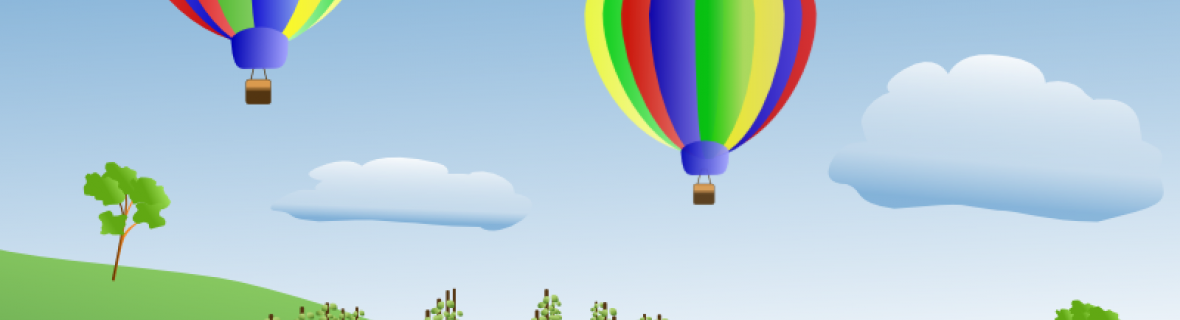
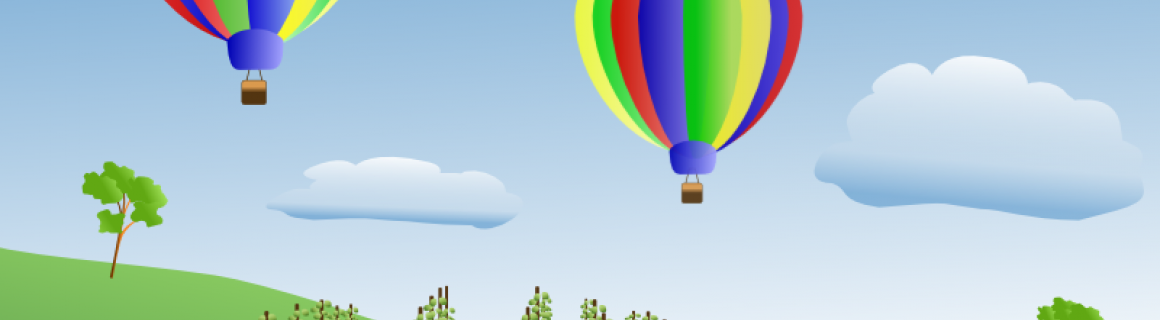
Apo theme

diff --git a/sites/default/themes/apo/css/global.css b/sites/default/themes/apo/css/global.css
@@ -127,31 +127,26 @@ html, body {
 
 /** Frontpage Promo block **/
 /* line 115, ../sass/global.scss */
-#zone-preface #region-preface {
-  width: 1180px;
-}
-
-/* line 119, ../sass/global.scss */
 .block-promo-homepage-block {
   margin-bottom: 20px;
   height: 320px;
   overflow: hidden;
 }
 
-/* line 125, ../sass/global.scss */
+/* line 121, ../sass/global.scss */
 ul.promo-items {
   margin: 0;
   padding: 0;
 }
-/* line 128, ../sass/global.scss */
+/* line 124, ../sass/global.scss */
 ul.promo-items li.promo-item {
   margin: 0;
   padding: 0;
   position: relative;
   height: 320px;
-  width: 1180px;
+  width: 1160px;
 }
-/* line 134, ../sass/global.scss */
+/* line 130, ../sass/global.scss */
 ul.promo-items li.promo-item .promo-description {
   position: absolute;
   top: 20px;
@@ -162,11 +157,11 @@ ul.promo-items li.promo-item .promo-description {
   z-index: 100;
   font-size: 1.231em;
 }
-/* line 143, ../sass/global.scss */
+/* line 139, ../sass/global.scss */
 ul.promo-items li.promo-item .promo-description h1 {
   text-shadow: 1px 1px 2px white;
 }
-/* line 147, ../sass/global.scss */
+/* line 143, ../sass/global.scss */
 ul.promo-items li.promo-item .promo-visual {
   position: absolute;
   top: 0;
@@ -175,13 +170,13 @@ ul.promo-items li.promo-item .promo-visual {
 }
 
 /** Frontpage text block **/
-/* line 157, ../sass/global.scss */
+/* line 153, ../sass/global.scss */
 .front #region-content {
   margin: 0;
   width: 100%;
 }
 
-/* line 162, ../sass/global.scss */
+/* line 158, ../sass/global.scss */
 .front #block-system-main {
   background: #f3f4f5;
   border-top: 1px solid #cacaca;
@@ -190,48 +185,44 @@ ul.promo-items li.promo-item .promo-visual {
 }
 
 /** Frontpage 3 blocks **/
-/* line 170, ../sass/global.scss */
-.front #region-postscript {
-  margin-left: 10px;
-  margin-right: 10px;
-  width: 100%;
-}
-
-/* line 176, ../sass/global.scss */
+/* line 166, ../sass/global.scss */
 .front ul.front-blocks {
   margin: 0;
   padding: 0;
-  margin-left: 10px;
 }
-/* line 180, ../sass/global.scss */
+/* line 169, ../sass/global.scss */
 .front ul.front-blocks li.front-block {
   margin: 0;
   padding: 0;
-  margin-right: 20px;
+  margin-right: 40px;
   padding: 20px 0;
 }
-/* line 185, ../sass/global.scss */
+/* line 174, ../sass/global.scss */
+.front ul.front-blocks li.front-block.last {
+  margin-right: 0;
+}
+/* line 177, ../sass/global.scss */
 .front ul.front-blocks li.front-block .frontblock-image {
   margin-bottom: 10px;
 }
-/* line 187, ../sass/global.scss */
+/* line 179, ../sass/global.scss */
 .front ul.front-blocks li.front-block .frontblock-image img {
-  width: 376px;
+  width: 356px;
   height: 155px;
   border: 2px solid #f3f4f5;
 }
-/* line 193, ../sass/global.scss */
+/* line 185, ../sass/global.scss */
 .front ul.front-blocks li.front-block .frontblock-title {
   font-family: "Roboto Condensed";
   text-transform: uppercase;
   font-size: 1.538em;
   margin-bottom: 10px;
 }
-/* line 199, ../sass/global.scss */
+/* line 191, ../sass/global.scss */
 .front ul.front-blocks li.front-block .frontblock-body {
   font-size: 1.231em;
 }
-/* line 201, ../sass/global.scss */
+/* line 193, ../sass/global.scss */
 .front ul.front-blocks li.front-block .frontblock-body p {
   margin-bottom: 8px;
 }
@@ -242,14 +233,14 @@ ul.promo-items li.promo-item .promo-visual {
 }
 */
 /** Search Block **/
-/* line 215, ../sass/global.scss */
+/* line 207, ../sass/global.scss */
 #block-search-form {
   position: absolute;
   z-index: 200;
   top: 100px;
   right: 0;
 }
-/* line 220, ../sass/global.scss */
+/* line 212, ../sass/global.scss */
 #block-search-form input.form-text {
   background: none;
   border: none;
@@ -258,13 +249,13 @@ ul.promo-items li.promo-item .promo-visual {
   padding-right: 30px;
   width: 230px;
 }
-/* line 228, ../sass/global.scss */
+/* line 220, ../sass/global.scss */
 #block-search-form .form-actions {
   position: absolute;
   top: 0;
   right: 0;
 }
-/* line 232, ../sass/global.scss */
+/* line 224, ../sass/global.scss */
 #block-search-form .form-actions input.form-submit {
   background: url(../img/bg_search_btn.png) no-repeat center center;
   text-indent: -999em;
@@ -275,26 +266,26 @@ ul.promo-items li.promo-item .promo-visual {
 }
 
 /** Sidebar Blocks **/
-/* line 244, ../sass/global.scss */
+/* line 236, ../sass/global.scss */
 .region-sidebar-second .block {
   margin-bottom: 20px;
 }
-/* line 246, ../sass/global.scss */
+/* line 238, ../sass/global.scss */
 .region-sidebar-second .block h2.block-title {
   font-size: 2em;
 }
-/* line 249, ../sass/global.scss */
+/* line 241, ../sass/global.scss */
 .region-sidebar-second .block .content {
   font-size: 1.231em;
 }
 
 /** Teamleden **/
-/* line 255, ../sass/global.scss */
+/* line 247, ../sass/global.scss */
 ul.team-items {
   margin: 0;
   padding: 0;
 }
-/* line 258, ../sass/global.scss */
+/* line 250, ../sass/global.scss */
 ul.team-items li.team-item {
   margin: 0;
   padding: 0;
@@ -304,50 +295,50 @@ ul.team-items li.team-item {
   margin-bottom: 30px;
   width: 45%;
 }
-/* line 266, ../sass/global.scss */
+/* line 258, ../sass/global.scss */
 ul.team-items li.team-item .team-pasfoto {
   clear: left;
   float: left;
   width: 140px;
 }
-/* line 270, ../sass/global.scss */
+/* line 262, ../sass/global.scss */
 ul.team-items li.team-item .team-pasfoto img {
   border: 2px solid #cacaca;
 }
-/* line 274, ../sass/global.scss */
+/* line 266, ../sass/global.scss */
 ul.team-items li.team-item .team-description {
   margin-left: 140px;
 }
-/* line 276, ../sass/global.scss */
+/* line 268, ../sass/global.scss */
 ul.team-items li.team-item .team-description .team-naam {
   font-weight: 800;
 }
-/* line 281, ../sass/global.scss */
+/* line 273, ../sass/global.scss */
 ul.team-items li.team-item.last {
   margin-right: 0;
 }
 
 /** Webforms **/
-/* line 288, ../sass/global.scss */
+/* line 280, ../sass/global.scss */
 .webform-client-form {
   clear: both;
   padding-top: 20px;
 }
-/* line 292, ../sass/global.scss */
+/* line 284, ../sass/global.scss */
 .webform-client-form .webform-component {
   clear: left;
 }
-/* line 294, ../sass/global.scss */
+/* line 286, ../sass/global.scss */
 .webform-client-form .webform-component label {
   width: 30%;
   float: left;
   font-weight: 100;
 }
-/* line 299, ../sass/global.scss */
+/* line 291, ../sass/global.scss */
 .webform-client-form .webform-component .description {
   margin-left: 30%;
 }
-/* line 302, ../sass/global.scss */
+/* line 294, ../sass/global.scss */
 .webform-client-form .webform-component .form-textarea-wrapper textarea {
   width: 500px;
   padding: 2px 7px;
@@ -356,7 +347,7 @@ ul.team-items li.team-item.last {
   box-sizing: content-box;
   -moz-box-sizing: content-box;
 }
-/* line 310, ../sass/global.scss */
+/* line 302, ../sass/global.scss */
 .webform-client-form .webform-component .form-text {
   padding: 2px 7px;
   width: 500px;
@@ -365,7 +356,7 @@ ul.team-items li.team-item.last {
   line-height: 25px;
   font-size: 1.308em;
 }
-/* line 319, ../sass/global.scss */
+/* line 311, ../sass/global.scss */
 .webform-client-form .form-actions input.form-submit {
   border: none;
   background: #cacaca;
@@ -381,13 +372,13 @@ ul.team-items li.team-item.last {
   -ms-transition: all 0.1s ease-in-out;
   transition: all 0.1s ease-in-out;
 }
-/* line 333, ../sass/global.scss */
+/* line 325, ../sass/global.scss */
 .webform-client-form .form-actions input.form-submit:hover {
   background: #444444;
 }
 
 /** Footer **/
-/* line 341, ../sass/global.scss */
+/* line 333, ../sass/global.scss */
 .block-copyright-footer {
   text-align: center;
 }

diff --git a/sites/default/themes/apo/sass/global.scss b/sites/default/themes/apo/sass/global.scss
@@ -112,10 +112,6 @@ html, body {
 
 
 /** Frontpage Promo block **/
-#zone-preface #region-preface {
-  width: 1180px;
-}
-
 .block-promo-homepage-block {
   margin-bottom: 20px;
   height: 320px;
@@ -130,7 +126,7 @@ ul.promo-items {
 		padding: 0;
 		position: relative;
 		height: 320px;
-		width: 1180px;
+		width: 1160px;
 		.promo-description {
 		  position: absolute;
 		  top: 20px;
@@ -167,25 +163,21 @@ ul.promo-items {
 }
 
 /** Frontpage 3 blocks **/
-.front #region-postscript {
-  margin-left: 10px;
-  margin-right: 10px;
-  width: 100%;
-}
-
 .front ul.front-blocks {
   margin: 0;
   padding: 0;
-  margin-left: 10px;
   li.front-block {
     margin: 0;
     padding: 0;
-    margin-right: 20px;
+    margin-right: 40px;
     padding: 20px 0;
+    &.last {
+      margin-right: 0;
+    }
     .frontblock-image {
       margin-bottom: 10px;
       img {
-        width: 376px;
+        width: 356px;
         height: 155px;
         border: 2px solid #f3f4f5;
       }

diff --git a/sites/default/themes/apo/css/grid/apo_default/wide/apo-default-wide-12.css b/sites/default/themes/apo/css/grid/apo_default/wide/apo-default-wide-12.css
@@ -13,11 +13,6 @@
   margin-right: 20px;
 }
 
-.grid-12 {
-  margin-left: 20px;
-  margin-right: 20px;
-}
-
 .push-1, .pull-1, .push-2, .pull-2, .push-3, .pull-3, .push-4, .pull-4,
 .push-5, .pull-5, .push-6, .pull-6, .push-7, .pull-7, .push-8, .pull-8,
 .push-9, .pull-9, .push-10, .pull-10, .push-11, .pull-11, .push-12, .pull-12 {
